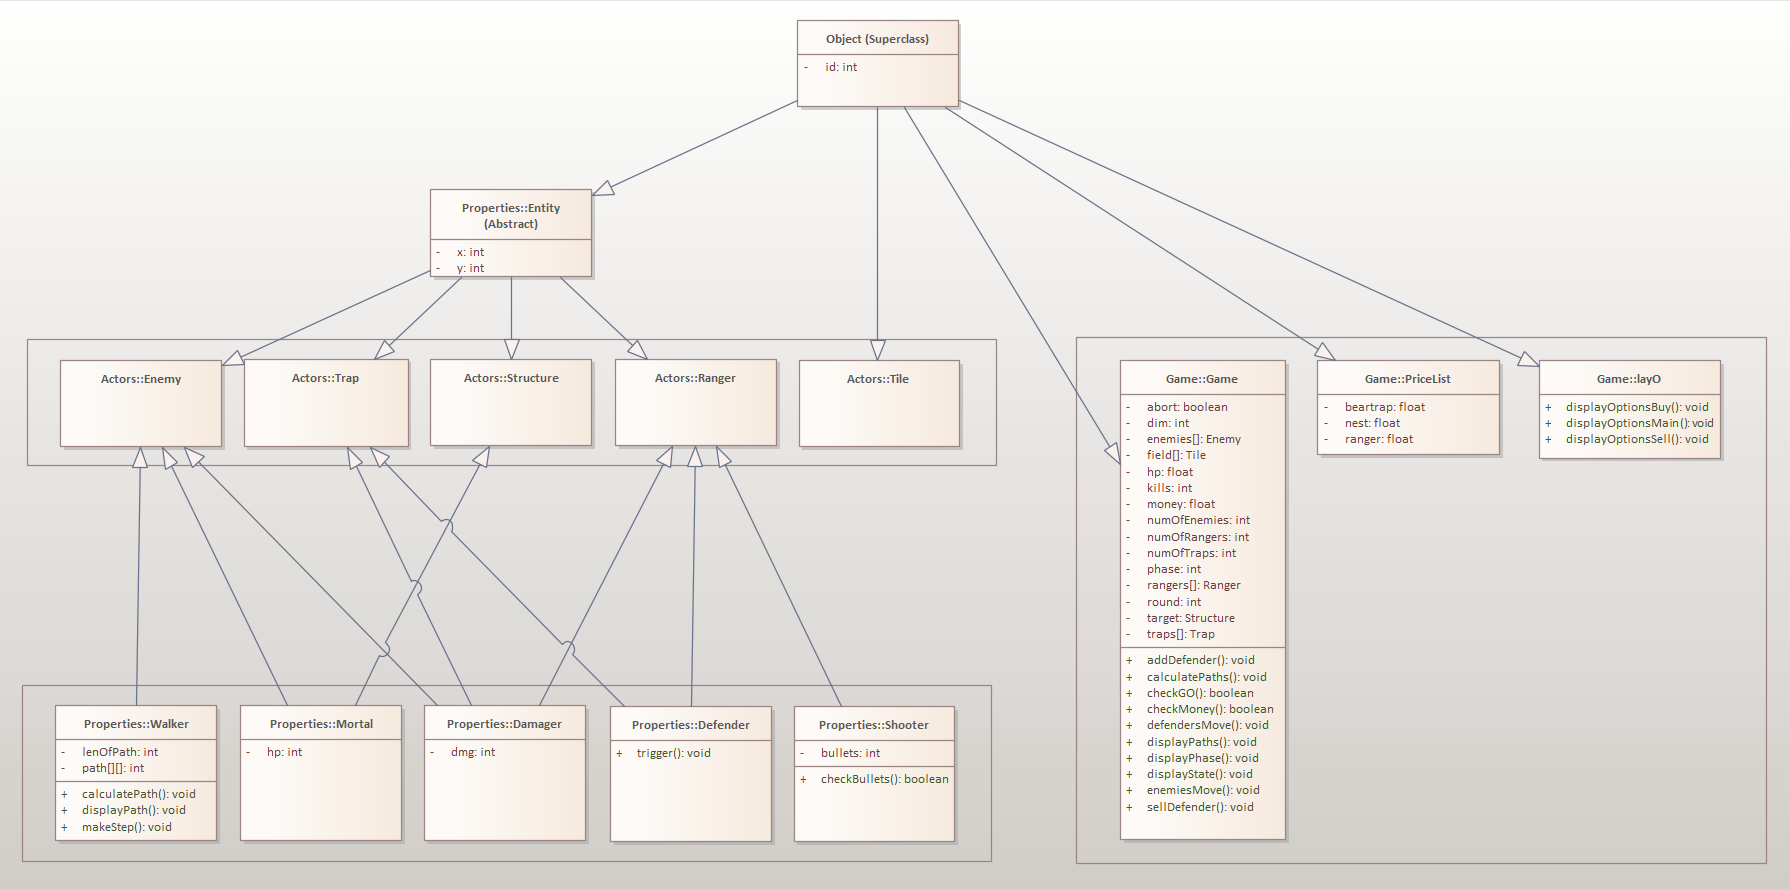
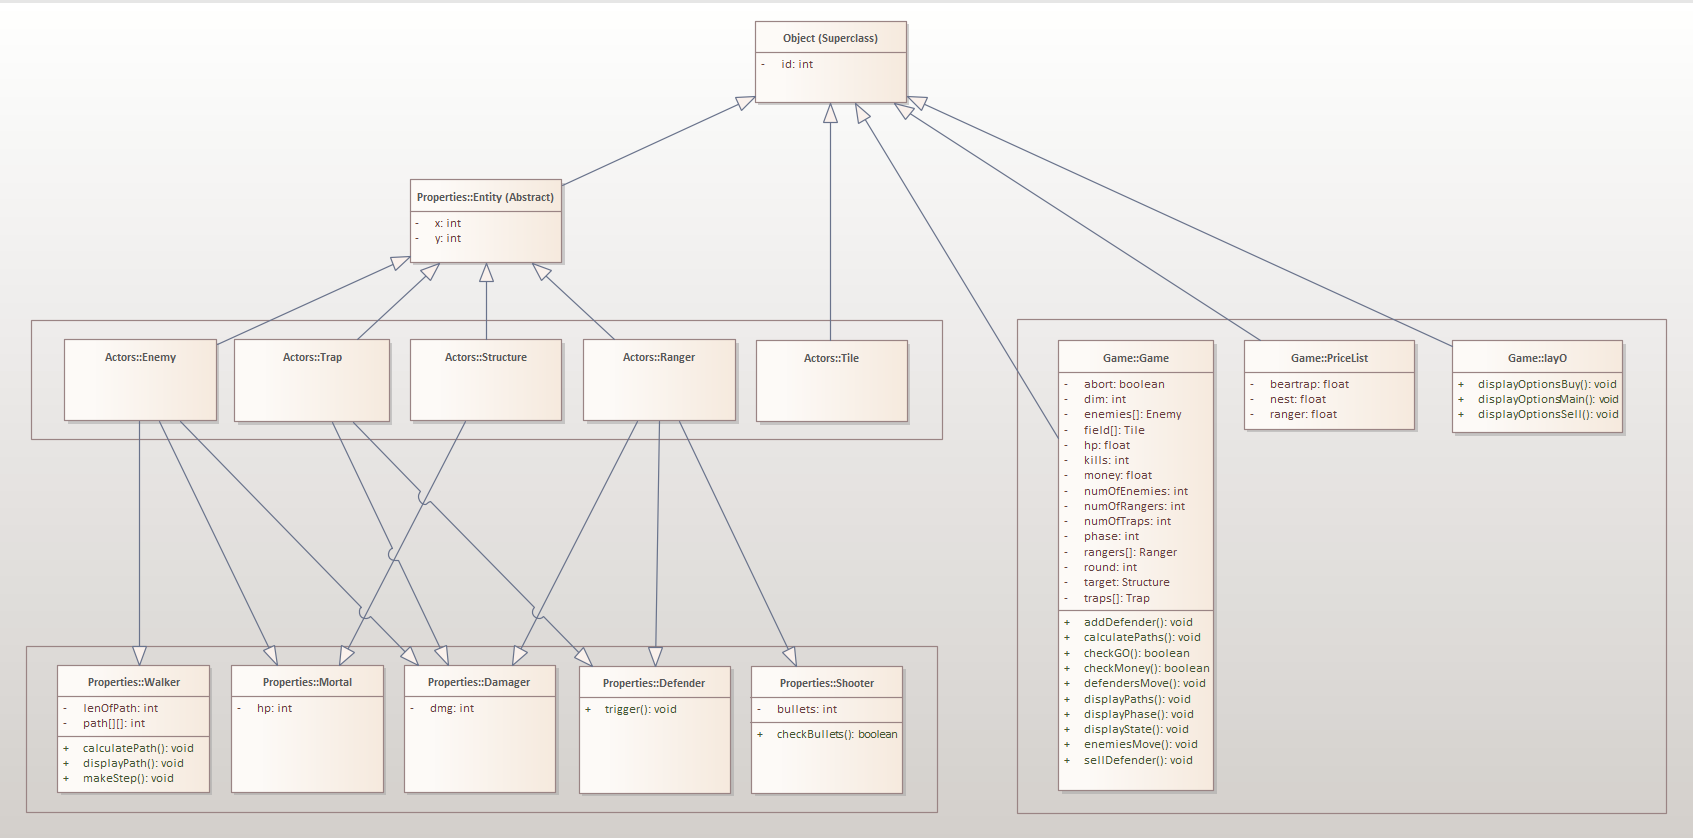
Modified diagram and defined some interfaces properly

diff --git a/classes.h b/classes.h
@@ -9,7 +9,7 @@ class Object {
 	protected: int id;
 
 	public: int getId() { return id; }
-                void setId(int val) { id = val; }
+            void setId(int val) { id = val; }
 };
 
 
@@ -19,8 +19,8 @@ class Entity: public Object {
 	protected: int x, y;
 
 	public: int getX() { return x; }
-                int getY() { return y; }
-		void setCoords(int newX, int newY) { x = newX; y = newY; }
+            int getY() { return y; }
+			void setCoords(int newX, int newY) { x = newX; y = newY; }
 };
 
 // PROPERTIES CLASSES (ABSTRACT)
@@ -29,46 +29,46 @@ class Damager {
 	protected: float dmg;
 
 	public:	float getDmg() { return dmg; }
-		void setDmg(float val) { dmg = val; }
+			void setDmg(float val) { dmg = val; }
 };
 
 class Mortal {
 	protected: float hp;
 
 	public:	float getHp() { return hp; }
-		void setHp(float val) { hp = val; }
+			void setHp(float val) { hp = val; }
 };
 
 class Walker {
 	protected: int path[32][2]; int lenOfPath;
 
-	public: void makeStep();
-		void calculatePath();
-		void displayPath();
+	public: virtual void makeStep();
+		    virtual void calculatePath();
+			virtual void displayPath();
 
-		int getLen() { return lenOfPath; }
-		void setLen(int lV) { lenOfPath = lV; }
+			int getLen() { return lenOfPath; }
+			void setLen(int lV) { lenOfPath = lV; }
 };
 
 class Shooter {
-        protected: float range; int bullets;
+    protected: float range; int bullets;
 
-        public:	float getRange() { return range; }
-		void setRange(float val) { range = val; }
-		int getBullets() { return bullets; }
-		void setBullets(int bV) { bullets = bV; }
+    public:	float getRange() { return range; }
+			void setRange(float val) { range = val; }
+			int getBullets() { return bullets; }
+			void setBullets(int bV) { bullets = bV; }
 
-		bool checkBullets() {
-			if(bullets > 0) {
-				return true;
-			} else {
-				return false;
+			bool checkBullets() {
+				if(bullets > 0) {
+					return true;
+				} else {
+					return false;
+				}
 			}
-		}
 };
 
 class Defence {
-	public: int trigger();
+	public: virtual int trigger();
 };
 
 // ACTORS CLASSES
